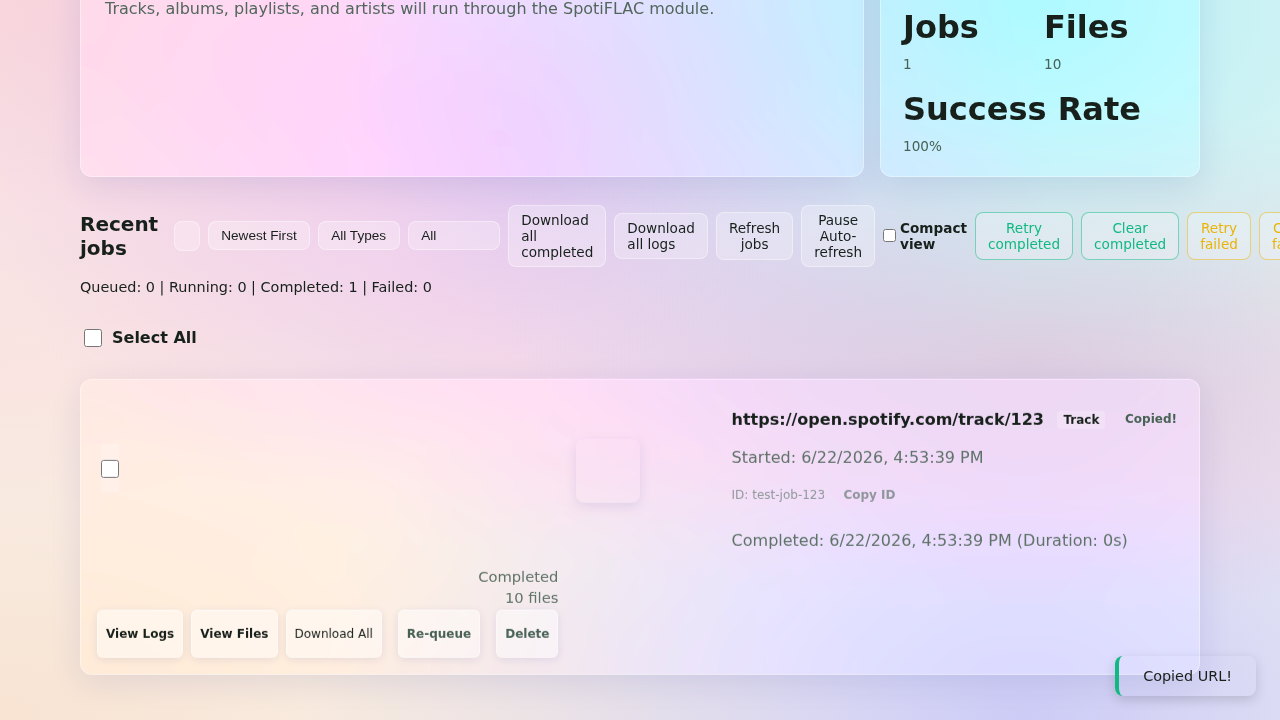
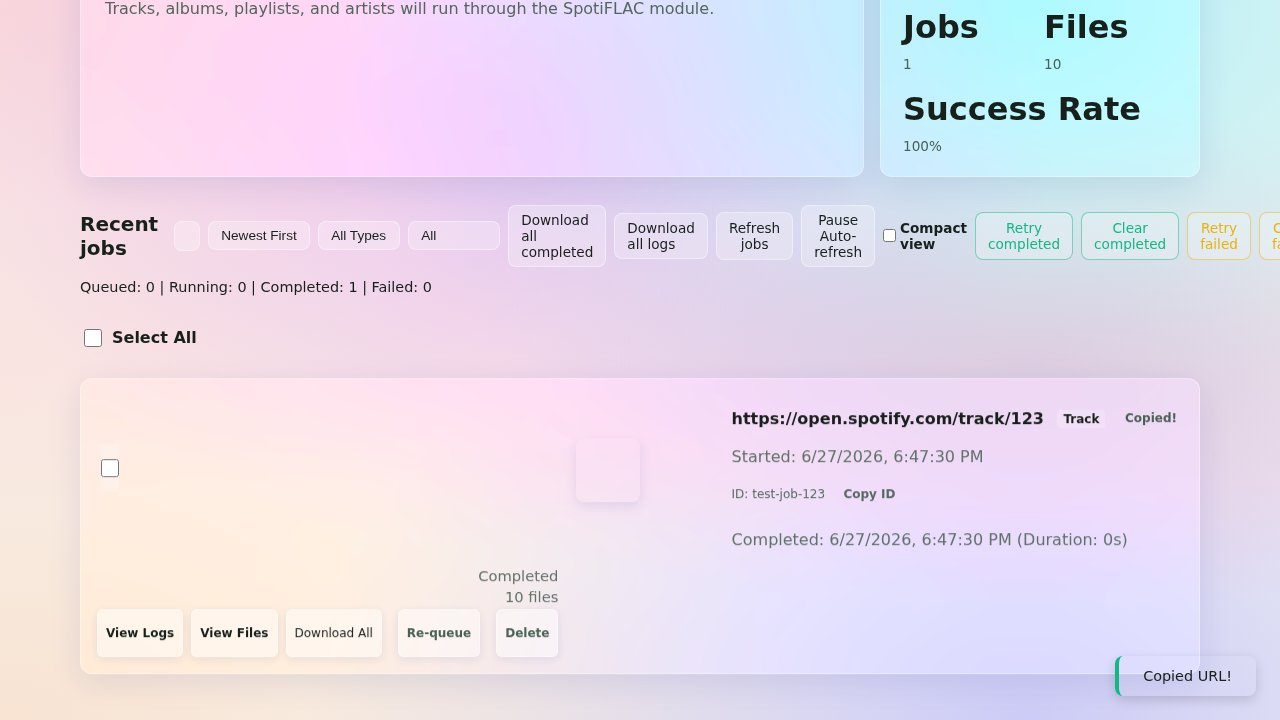
fix(api): add quality and service to JobRequest model
Context: The `/api/jobs` POST endpoint was updated to support `quality` and `service` fields, but these were missing from the `JobRequest` Pydantic model.
Change: Added `quality: Optional[str] = None` and `service: Optional[str] = None` to `JobRequest` and `JobResponse` in `server.py`, and updated test cases. Also fixed a flaky UI test (`clear running jobs`) in `web-ui.spec.js` using `expect.poll()`.
Rationale: The fields need to be in the request model for FastAPI to parse them and prevent `AttributeError` during job creation.
Impact/Risk: Fixes API errors during job creation when quality/service are provided.
Tests: Ran full backend and frontend test suites successfully.

diff --git a/website/tests/web-ui.spec.js b/website/tests/web-ui.spec.js
@@ -457,7 +457,7 @@ test("can clear running jobs", async ({ page }) => {
 
   await clearRunningBtn.click();
 
-  expect(clearRunningCalled).toBe(true);
+  await expect.poll(() => clearRunningCalled).toBe(true);
 });
 
 test("can clear job history", async ({ page }) => {

diff --git a/tests/test_server.py b/tests/test_server.py
@@ -22,12 +22,14 @@ def test_get_jobs_empty():
 
 @patch('server.run_spotiflac')
 def test_create_job(mock_run):
-    response = client.post("/api/jobs", json={"url": "https://open.spotify.com/track/123"})
+    response = client.post("/api/jobs", json={"url": "https://open.spotify.com/track/123", "quality": "LOSSLESS", "service": "tidal"})
     assert response.status_code == 200
     data = response.json()
     assert "id" in data
     assert data["url"] == "https://open.spotify.com/track/123"
     assert data["status"] == "Queued"
+    assert data["quality"] == "LOSSLESS"
+    assert data["service"] == "tidal"
     assert "completed_at" not in data or data["completed_at"] is None
 
     # Verify it was added to history
@@ -36,6 +38,8 @@ def test_create_job(mock_run):
     jobs = response.json()
     assert len(jobs) == 1
     assert jobs[0]["id"] == data["id"]
+    assert jobs[0]["quality"] == "LOSSLESS"
+    assert jobs[0]["service"] == "tidal"
     assert "completed_at" not in jobs[0] or jobs[0]["completed_at"] is None
 
 @patch('server.run_spotiflac')

diff --git a/server.py b/server.py
@@ -60,6 +60,8 @@ class JobResponse(BaseModel):
     error_log: Optional[str] = None
     files: Optional[int] = 0
     completed_at: Optional[str] = None
+    quality: Optional[str] = None
+    service: Optional[str] = None
 
 
 async def read_history() -> List[Dict]:
@@ -175,7 +177,9 @@ async def create_job(request: JobRequest, background_tasks: BackgroundTasks):
         "created_at": datetime.now(timezone.utc).isoformat(),
         "error_log": None,
         "files": 0,
-        "total_size": 0
+        "total_size": 0,
+        "quality": request.quality,
+        "service": request.service
     }
 
     history = await read_history()
